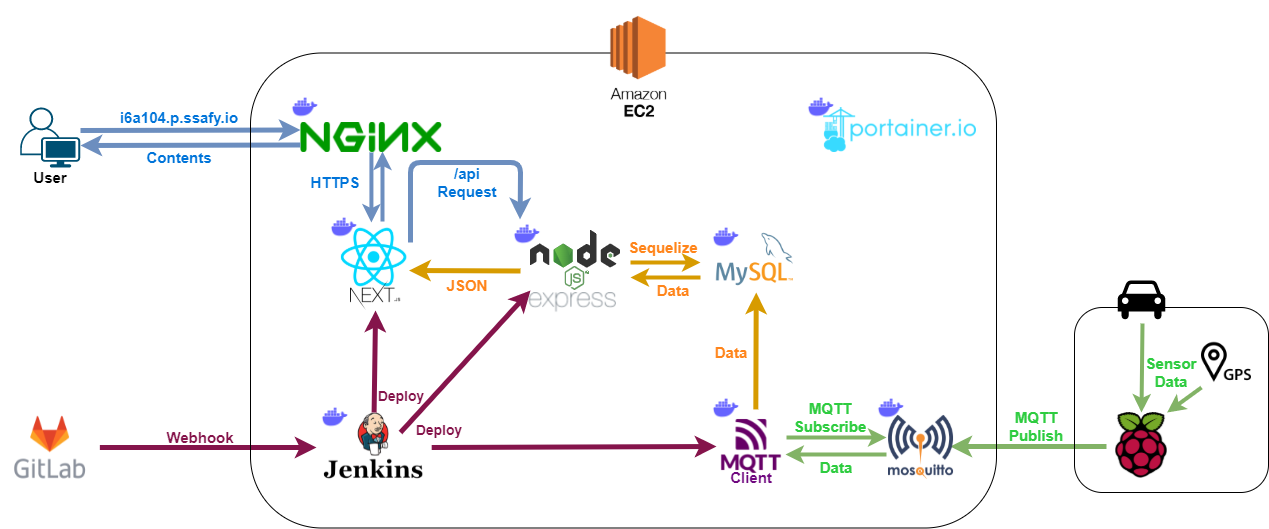
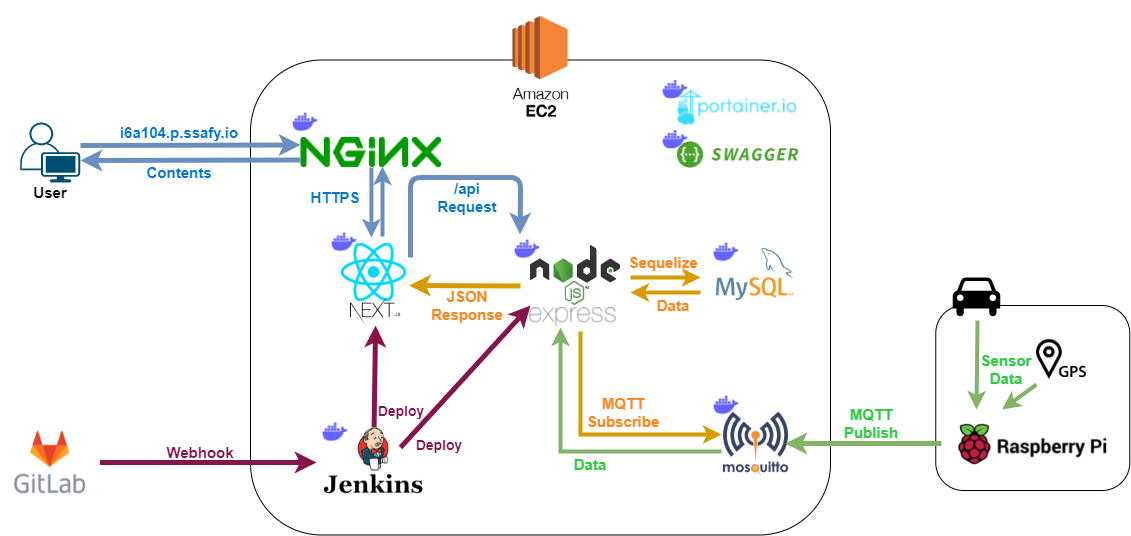
Fix: Edit 시스템_구성도.png
Edit 시스템_구성도.png
Edit car.js minor json response message

diff --git a/backend/routes/car.js b/backend/routes/car.js
@@ -136,7 +136,7 @@ router.patch('/:carID/time', async(req, res) => {
             return res.status(200).json({statusCode: 0});
         }
         else {
-            return res.status(403).json({message: 'invalid jwt'});
+            return res.status(403).json({message: 'require car_res_data_start, car_res_date_end'});
         }
 
     } catch (error) {
